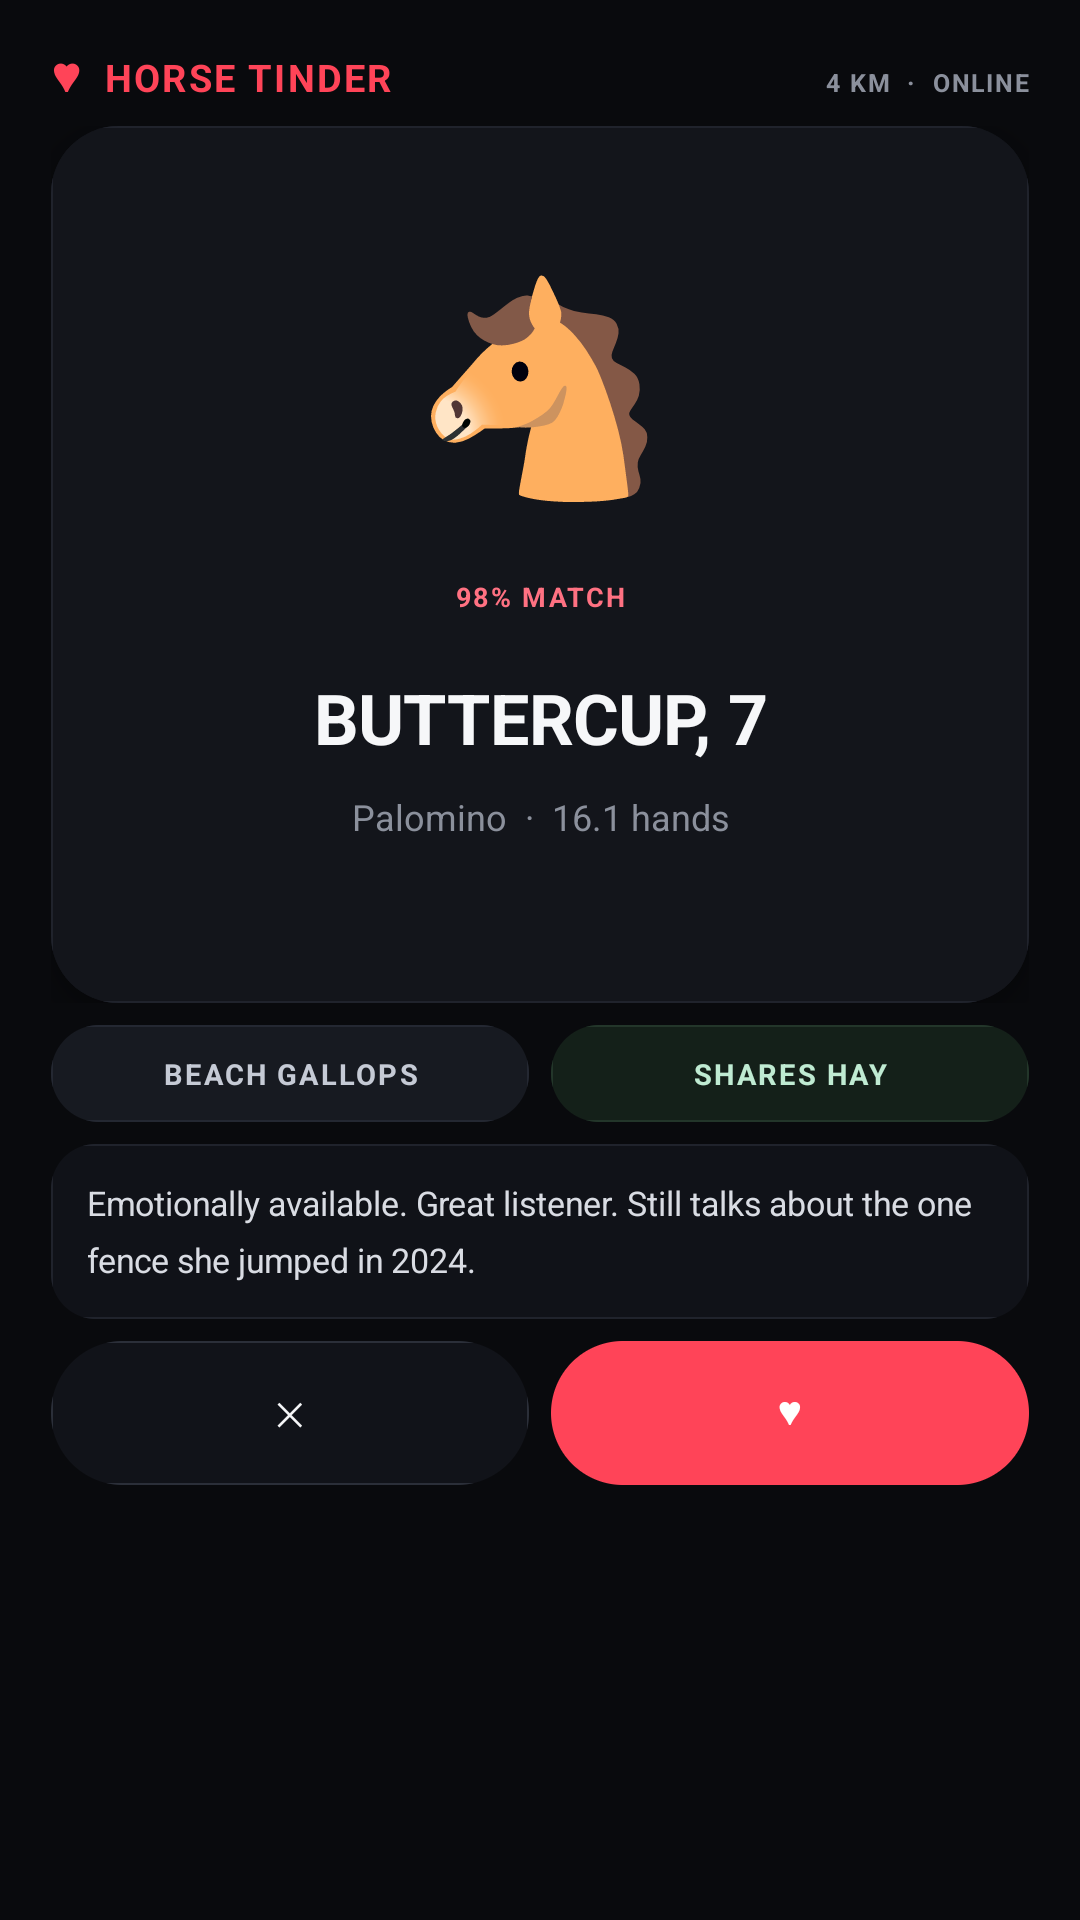
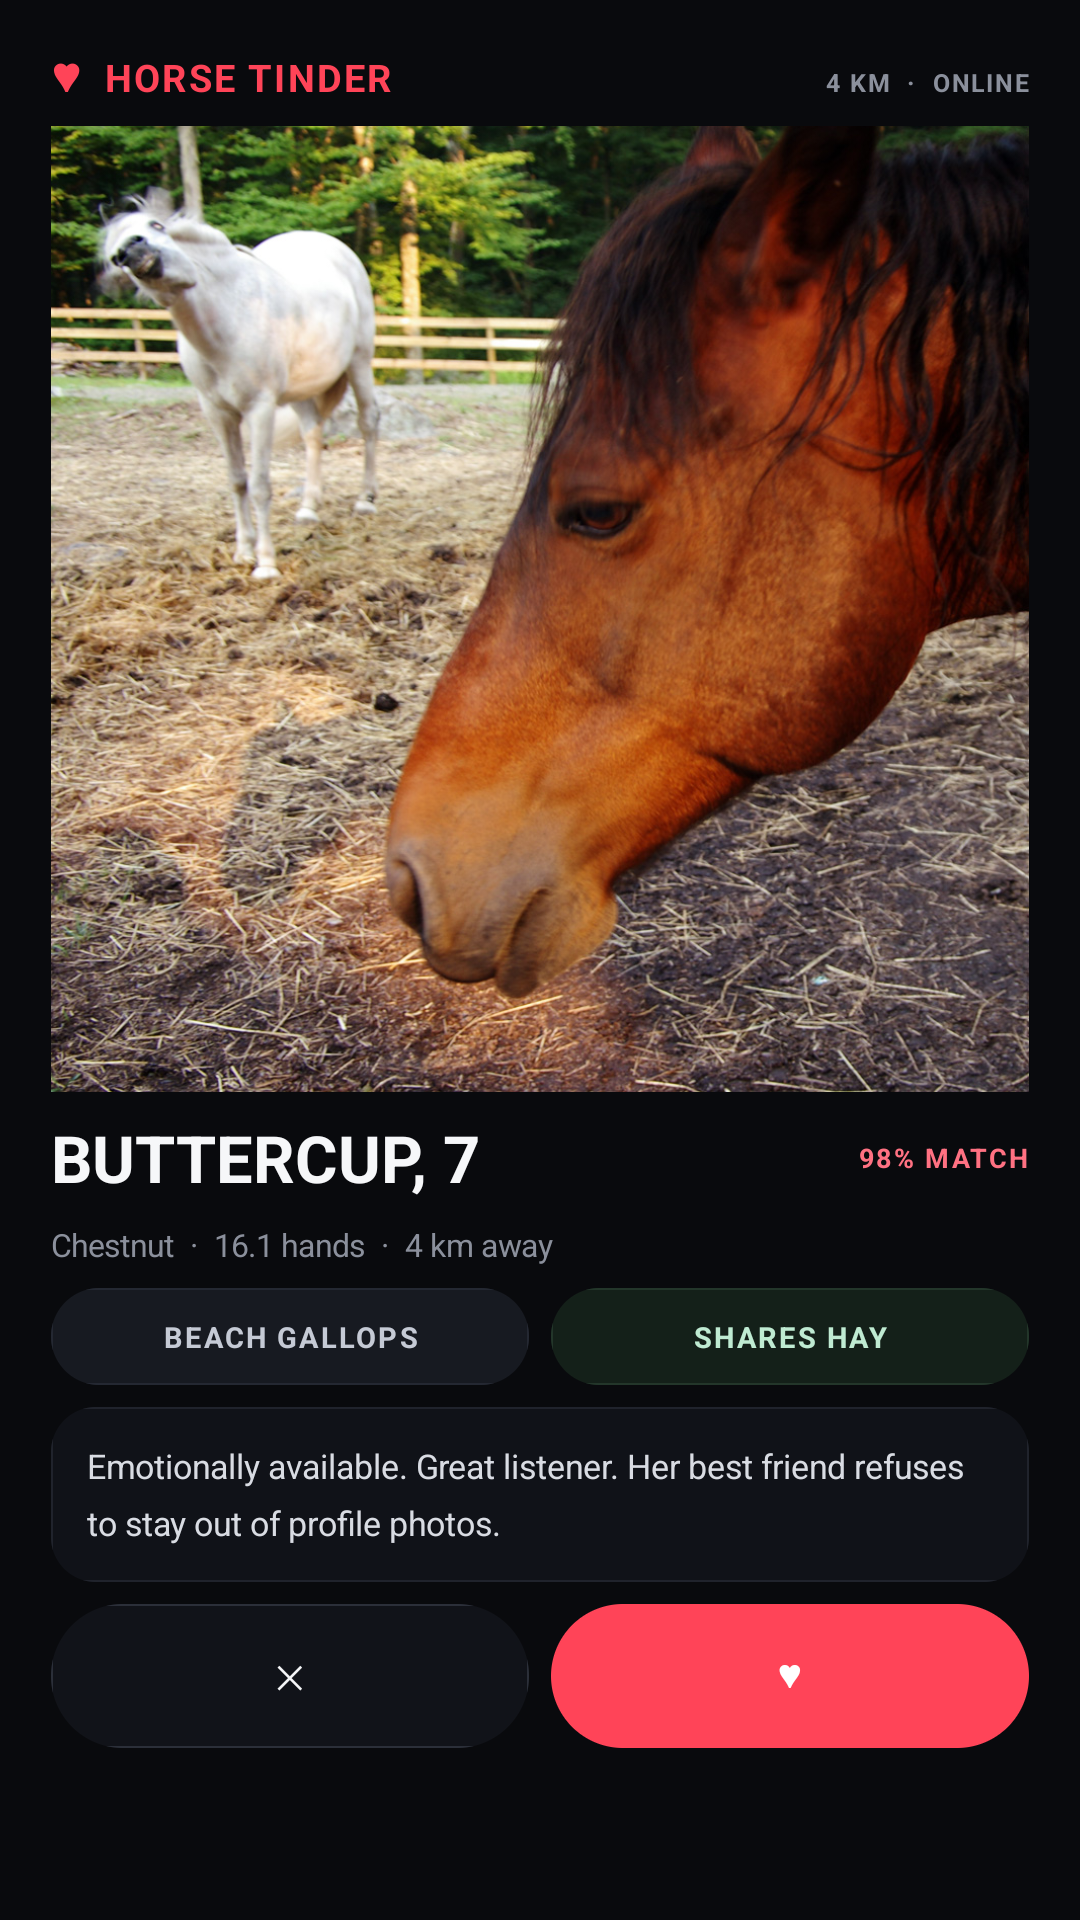
Add real Horse Tinder profile photo and stabilize performance CI

diff --git a/src/cli.rs b/src/cli.rs
@@ -5052,6 +5052,14 @@ __FLUX_PICKER_METHODS__
             view.setImageDrawable(null);
             return;
         }
+        if (!source.contains("://")) {
+            String assetSource = source.startsWith("assets/") ? source.substring(7) : source;
+            try (java.io.InputStream input = getAssets().open(assetSource)) {
+                view.setImageBitmap(android.graphics.BitmapFactory.decodeStream(input));
+                return;
+            } catch (java.io.IOException ignored) {
+            }
+        }
         Uri uri = source.contains("://") ? Uri.parse(source) : Uri.fromFile(new File(source));
         view.setImageURI(uri);
     }
@@ -5420,6 +5428,45 @@ fn ensure_parent_directory(output: &Path) -> Result<(), CliError> {
     Ok(())
 }
 
+fn stage_android_package_assets(
+    manifest: &fluxc::project::PackageManifest,
+    staging_root: &Path,
+) -> Result<bool, CliError> {
+    let package_root = manifest
+        .path
+        .parent()
+        .ok_or_else(|| "Android package manifest has no parent directory".to_string())?;
+    let source_root = package_root.join("assets");
+    if !source_root.is_dir() {
+        return Ok(false);
+    }
+    let destination_root = staging_root.join("assets");
+    copy_android_asset_directory(&source_root, &destination_root)?;
+    Ok(true)
+}
+
+fn copy_android_asset_directory(source: &Path, destination: &Path) -> Result<(), CliError> {
+    fs::create_dir_all(destination)
+        .map_err(|error| format!("failed to create Android asset directory: {error}"))?;
+    for entry in fs::read_dir(source)
+        .map_err(|error| format!("failed to read Android asset directory: {error}"))?
+    {
+        let entry =
+            entry.map_err(|error| format!("failed to read Android asset entry: {error}"))?;
+        let file_type = entry
+            .file_type()
+            .map_err(|error| format!("failed to inspect Android asset entry: {error}"))?;
+        let destination_path = destination.join(entry.file_name());
+        if file_type.is_dir() {
+            copy_android_asset_directory(&entry.path(), &destination_path)?;
+        } else if file_type.is_file() {
+            fs::copy(entry.path(), &destination_path)
+                .map_err(|error| format!("failed to stage Android asset: {error}"))?;
+        }
+    }
+    Ok(())
+}
+
 fn build_android_aab(
     c_source: &str,
     manifest: &fluxc::project::PackageManifest,
@@ -5433,6 +5480,7 @@ fn build_android_aab(
     fs::create_dir_all(base.join("manifest")).map_err(|error| {
         format!("failed to create Android App Bundle staging directory: {error}")
     })?;
+    stage_android_package_assets(manifest, &base)?;
 
     for abi in [
         AndroidAbi::Arm64V8a,
@@ -5560,6 +5608,7 @@ fn build_android_apk(
     let manifest_path = staging.join("AndroidManifest.xml");
     fs::write(&manifest_path, manifest_xml)
         .map_err(|error| format!("failed to write Android manifest: {error}"))?;
+    let has_assets = stage_android_package_assets(manifest, &staging)?;
     let unsigned = staging.join("unsigned.apk");
     let aapt2 = toolchain.build_tools.join("aapt2");
     run_checked(
@@ -5584,6 +5633,9 @@ fn build_android_apk(
         .arg("lib");
     if android_has_generated_java(c_source) {
         zip.arg("classes.dex");
+    }
+    if has_assets {
+        zip.arg("assets");
     }
     run_checked(&mut zip, "zip Android application payload")?;
     let aligned = staging.join("aligned.apk");
@@ -7092,6 +7144,8 @@ mod tests {
         assert!(activity.contains(
             "if (maxWidthChars >= 0) view.setMaxEms(maxWidthChars == 0 ? Integer.MAX_VALUE : maxWidthChars);"
         ));
+        assert!(activity.contains("getAssets().open(assetSource)"));
+        assert!(activity.contains("android.graphics.BitmapFactory.decodeStream(input)"));
         assert!(!activity.contains("nativeOnPickerResult"));
         assert!(!activity.contains("onBackPressed"));
         assert!(!activity.contains("KEYCODE_BACK"));

diff --git a/README.md b/README.md
@@ -28,7 +28,7 @@ flux run my-flux-app
 
 <img src="assets/readme/flux-mobile-showcase.png" alt="Horse Tinder dating app for horses compiled with Flux and running on Waydroid" width="360">
 
-<sub>Real Android screenshot of the checked-in Horse Tinder <code>examples/mobile_showcase</code> app, compiled by Flux and captured from Waydroid. Reproduce it with <code>./tools/capture-readme-showcase</code>.</sub>
+<sub>Real Android screenshot of the checked-in Horse Tinder <code>examples/mobile_showcase</code> app, compiled by Flux and captured from Waydroid. Reproduce it with <code>./tools/capture-readme-showcase</code>. Horse photo: <a href="https://commons.wikimedia.org/wiki/File:Funny_Horse_Faces.jpg">Funny Horse Faces</a> by Jussi You-S-See, <a href="https://creativecommons.org/licenses/by-sa/2.0/">CC BY-SA 2.0</a>.</sub>
 
 </div>
 

diff --git a/examples/mobile_showcase/ATTRIBUTION.md b/examples/mobile_showcase/ATTRIBUTION.md
@@ -1,0 +1,11 @@
+# Horse Tinder showcase photo
+
+`assets/buttercup.jpg` is **Funny Horse Faces** by Jussi You-S-See, sourced from Wikimedia Commons:
+
+https://commons.wikimedia.org/wiki/File:Funny_Horse_Faces.jpg
+
+The photo is licensed under **Creative Commons Attribution-ShareAlike 2.0 Generic (CC BY-SA 2.0)**:
+
+https://creativecommons.org/licenses/by-sa/2.0/
+
+The checked-in photo file is the original Wikimedia Commons image. The Horse Tinder UI displays it with native `cover` cropping; the source image itself is not edited.
